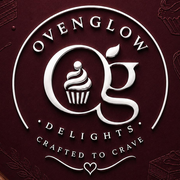
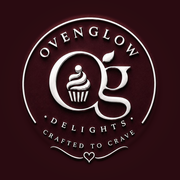
feat(brand): cut the round badge properly out of the artwork
The logo files were crops of the shop's artwork, and both were cut
wrong. `logo.png` was a square tight enough that the badge's outer ring
touched all four edges, so the circular frame it is shown in clipped the
ring and brought a corner of the rolling pin with it. `logo-mark.png`
was worse: a letterbox strip with the O and the g cut off at the sides
and black bands above and below.

Both are recut from the same artwork, from what is actually part of the
mark rather than from a rectangle around it.

How, since the artwork is the badge photographed on maroon board with
embossed line art around it: silver is bright and near-neutral, while
the ground is red-dominant and the rolling pin is brown, so a saturation
ceiling separates the mark from both -- brightness alone picks up the
rolling pin and runs the bounding box off the edge of the image.
Everything outside the mark becomes the artwork's own ground colour,
sampled per radius, so the maroon keeps its vignette and the badge keeps
its drop shadow and only the decoration goes.

Two things that needed more than a circle:

- A sprig sits at radius 450 in one direction, and the ring reaches 433
  only in another, so a radius generous enough to keep the whole badge
  also kept the sprig. The keep is the mark's own silhouette plus
  everything inside the ring.
- For the small mark, no circle separates the OG from the lettering:
  DELIGHTS sits at the same distance from the centre as the g's tail.
[…]

diff --git a/scripts/make-logo.py b/scripts/make-logo.py
@@ -1,0 +1,205 @@
+"""
+Cut the round badge out of the shop's artwork.
+
+The artwork is the badge photographed on maroon board with embossed line art
+around it -- cake slices, a whisk, a rolling pin, a sprig. The site shows the
+mark inside a circular frame, so anything outside the badge is either clipped or
+half-visible. The logo.png this replaces was a square crop tight enough that the
+outer ring touched all four edges, and logo-mark.png was a letterbox strip of the
+monogram with the O and the g cut off at the sides and black bands above and
+below.
+
+So: find what is actually part of the mark, keep that, and replace everything
+else with the artwork's own ground -- sampled per radius, so the maroon keeps its
+vignette and the badge keeps its drop shadow, and only the decoration goes.
+
+Run:  python3 -I make_logo.py <artwork.jpg> <output dir>
+"""
+import sys
+import numpy as np
+from PIL import Image, ImageFilter
+
+src_path, out_dir = sys.argv[1], sys.argv[2]
+src = np.asarray(Image.open(src_path).convert('RGB')).astype(np.float32)
+H, W, _ = src.shape
+
+lum = src.mean(axis=2)
+sat = src.max(axis=2) - src.min(axis=2)
+# Silver is bright and near-neutral. The maroon ground is red-dominant and the
+# rolling pin is brown, so a saturation ceiling separates the mark from both --
+# brightness alone picks up the rolling pin and runs the bounding box off the
+# edge of the image.
+SILVER = (lum > 140) & (sat < 28)
+
+yy, xx = np.mgrid[0:H, 0:W]
+
+
+def blur(mask, sigma):
+    img = Image.fromarray((mask * 255).astype(np.uint8))
+    return np.asarray(img.filter(ImageFilter.GaussianBlur(sigma))).astype(np.float32) / 255
+
+
+def components(mask, min_px=400):
+    """Connected components, labelled by a scan with union-find."""
+    closed = blur(mask, 2.5) > 0.25  # bridge hairline gaps within one glyph
+    lab = np.zeros((H, W), np.int32)
+    parent, nxt = {}, 0
+
+    def find(x):
+        while parent[x] != x:
+            parent[x] = parent[parent[x]]
+            x = parent[x]
+        return x
+
+    def union(x, y):
+        rx, ry = find(x), find(y)
+        if rx != ry:
+            parent[max(rx, ry)] = min(rx, ry)
+
+    for y in range(H):
+        for x in np.nonzero(closed[y])[0]:
+            near = [v for v in (
+                lab[y - 1, x] if y else 0,
+                lab[y, x - 1] if x else 0,
+                lab[y - 1, x - 1] if (y and x) else 0,
+                lab[y - 1, x + 1] if (y and x + 1 < W) else 0,
+            ) if v]
+            if near:
+                v = min(near)
+                lab[y, x] = v
+                for o in near:
+                    union(v, o)
+            else:
+                nxt += 1
+                parent[nxt] = nxt
+                lab[y, x] = nxt
+
+    flat = np.zeros(nxt + 1, np.int32)
+    for i in range(1, nxt + 1):
+        flat[i] = find(i)
+    lab = flat[lab]
+
+    found = []
+    for v in np.unique(lab):
+        if v == 0:
+            continue
+        piece = lab == v
+        if piece.sum() < min_px:
+            continue
+        ys, xs = np.nonzero(piece)
+        found.append({'mask': piece, 'n': int(piece.sum()),
+                      'box': (xs.min(), xs.max(), ys.min(), ys.max())})
+    return found
+
+
+def enclosing_circle(mask, search=18):
+    """Smallest circle containing the mask, by a local search on the centre."""
+    ys, xs = np.nonzero(mask)
+    cx0, cy0 = (xs.min() + xs.max()) / 2, (ys.min() + ys.max()) / 2
+    best = None
+    for cx in np.arange(cx0 - search, cx0 + search + 0.1, 1.0):
+        for cy in np.arange(cy0 - search, cy0 + search + 0.1, 1.0):
+            r = np.hypot(xs - cx, ys - cy).max()
+            if best is None or r < best[0]:
+                best = (r, float(cx), float(cy))
+    return best
+
+
+def ground_by_radius(cx, cy, upto):
+    """
+    The ground colour at each radius, as the artwork actually has it.
+
+    Median rather than mean, over the whole annulus and with the mark's own
+    pixels excluded: the decorations are a small part of any ring, so the median
+    lands on clean board. Taken per radius, it carries the vignette and the
+    badge's drop shadow across without carrying a whisk.
+    """
+    rad = np.hypot(xx - cx, yy - cy)
+    table = np.zeros((int(upto) + 3, 3), np.float32)
+    for r in range(int(upto) + 3):
+        band = (rad >= r - 2) & (rad < r + 3) & ~SILVER
+        table[r] = np.median(src[band], axis=0) if band.sum() > 200 else table[r - 1]
+    k = np.ones(11) / 11
+    for c in range(3):
+        table[:, c] = np.convolve(np.pad(table[:, c], 5, mode='edge'), k, mode='valid')
+    return table
+
+
+def render(keep, cx, cy, canvas_r, size, square_bg=False, feather=7.0, exclude=None):
+    """
+    One square image: the artwork where `keep` says so, the shop's own maroon
+    everywhere else. `canvas_r` is the half-width of the crop in source pixels --
+    the gap between the mark and that edge is the breathing room it needs inside
+    a circular frame.
+    """
+    alpha = np.clip(blur(keep, feather) * 1.9, 0, 1)
+    if exclude is not None:
+        # The margin that carries the badge's drop shadow also reaches far
+        # enough to leave a ghost of whatever lettering sits just outside the
+        # crop -- a faint "C" floating in the maroon. Anything silver that is
+        # not part of this mark is pushed back out explicitly.
+        alpha *= 1 - np.clip(blur(exclude, 5) * 3.0, 0, 1)
+    table = ground_by_radius(cx, cy, canvas_r * 1.5)
+
+    rad = np.hypot(xx - cx, yy - cy)
+    ground = table[np.clip(rad.astype(int), 0, len(table) - 1)]
+    if square_bg:
+        # An app icon is masked to whatever shape the platform likes, so its
+        # ground runs to the corners rather than fading past a circle.
+        flat = table[int(canvas_r)]
+        ground = np.where(rad[..., None] > canvas_r, flat, ground)
+
+    merged = src * alpha[..., None] + ground * (1 - alpha[..., None])
+
+    box = (int(round(cx - canvas_r)), int(round(cy - canvas_r)),
+           int(round(cx + canvas_r)), int(round(cy + canvas_r)))
+    # Crop at full resolution and let PIL downscale: sampling the source per
+    # output pixel would alias the engraved lettering into dotted lines.
+    return Image.fromarray(np.clip(merged, 0, 255).astype(np.uint8)) \
+        .crop(box).resize((size, size), Image.LANCZOS)
+
+
+# ------------------------------------------------------------- the badge --
+R, cx, cy = enclosing_circle(SILVER)
+rad_badge = np.hypot(xx - cx, yy - cy)
+# The silhouette plus everything inside the ring. The circle alone is not
+# enough: the ring is not concentric with the mark's bounding circle, so a sprig
+# sitting at radius 450 in one direction fell inside a radius the ring reaches
+# only in another, and came through into the finished logo.
+badge_keep = (blur(SILVER, 9) > 0.045) | (rad_badge < R * 0.86)
+print(f'badge:    centre ({cx:.0f}, {cy:.0f})  radius {R:.0f}')
+
+# ---------------------------------------------------------- the monogram --
+# At header size the arched lettering renders about four pixels tall and reads
+# as grey mush, so small sizes get the OG alone. Picked out as connected
+# components rather than by radius: DELIGHTS sits at the same distance from the
+# centre as the g's tail, so no circle separates them.
+parts = components(SILVER)
+MONO_BOX = (380, 880, 365, 790)
+mono = np.zeros((H, W), bool)
+for p in parts:
+    x0, x1, y0, y1 = p['box']
+    if x0 >= MONO_BOX[0] and x1 <= MONO_BOX[1] and y0 >= MONO_BOX[2] and y1 <= MONO_BOX[3]:
+        mono |= p['mask']
+        print(f'  monogram part: {p["n"]:6d}px  x {x0}-{x1}  y {y0}-{y1}')
+Rm, mx, my = enclosing_circle(mono)
+mono_keep = blur(mono, 9) > 0.045
+print(f'monogram: centre ({mx:.0f}, {my:.0f})  radius {Rm:.0f}')
+
+not_mono = SILVER & ~(blur(mono, 4) > 0.02)
+
+jobs = [
+    ('logo.png',             badge_keep, (cx, cy), R * 1.15,  512, False, None),
+    # 256, not 512. This is the one that loads on every page -- the header and
+    # the footer both take the simplified mark -- and it is drawn at 44 to 56
+    # CSS pixels, so 512 was a quarter of a megabyte to render a thumbnail.
+    ('logo-mark.png',        mono_keep,  (mx, my), Rm * 1.17, 256, False, not_mono),
+    ('icon-512.png',         badge_keep, (cx, cy), R * 1.32,  512, True,  None),
+    ('icon-192.png',         badge_keep, (cx, cy), R * 1.32,  192, True,  None),
+    ('apple-touch-icon.png', badge_keep, (cx, cy), R * 1.24,  180, True,  None),
+    ('favicon-32.png',       mono_keep,  (mx, my), Rm * 1.17, 32,  True,  not_mono),
+]
+for name, keep, (ax, ay), canvas, size, square, excl in jobs:
+    render(keep, ax, ay, canvas, size, square_bg=square, exclude=excl) \
+        .save(f'{out_dir}/{name}', optimize=True)
+    print(f'  wrote {name}  {size}x{size}')
